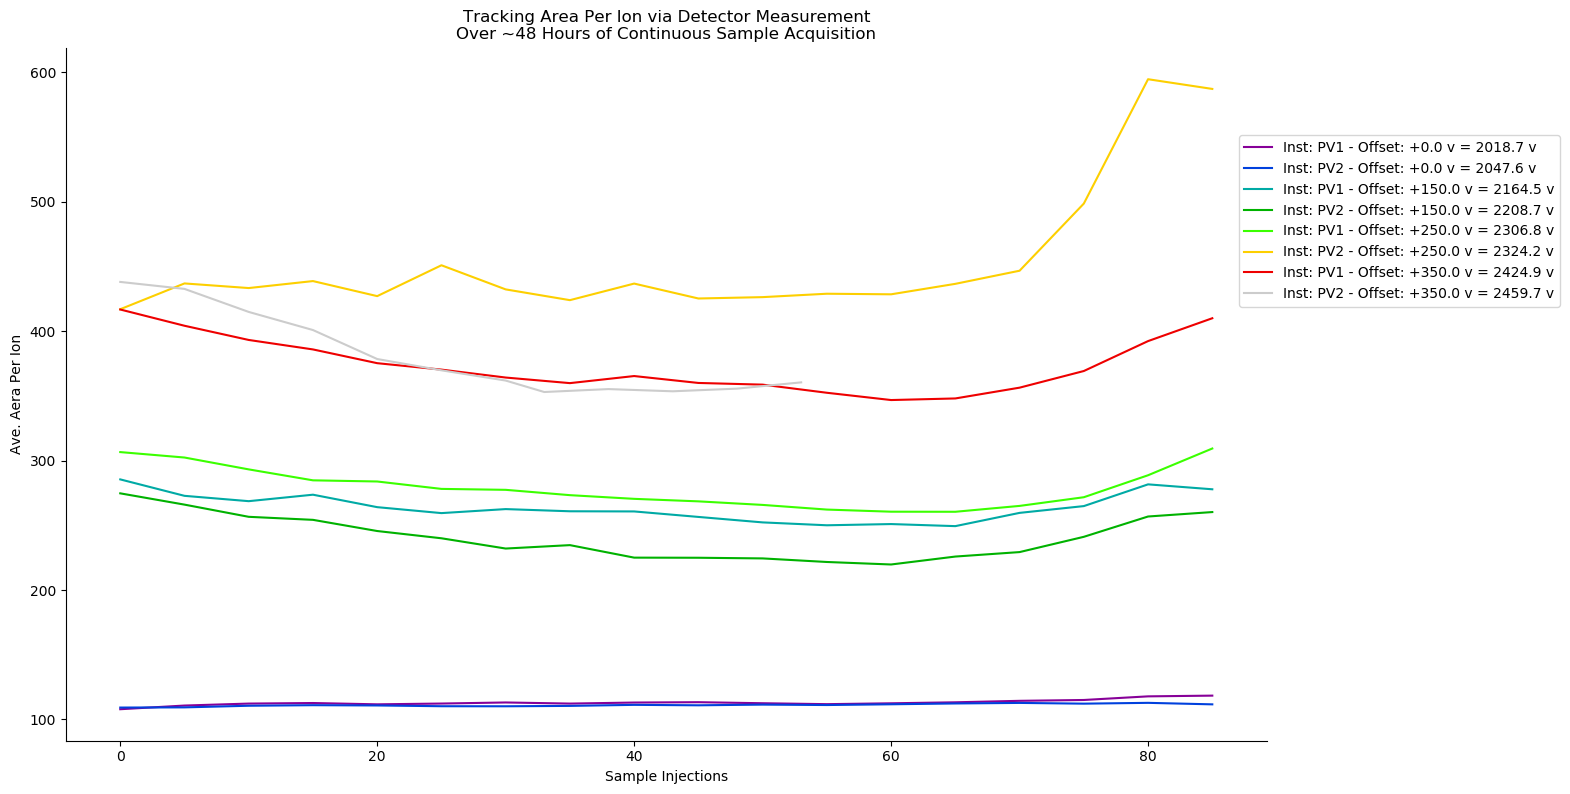
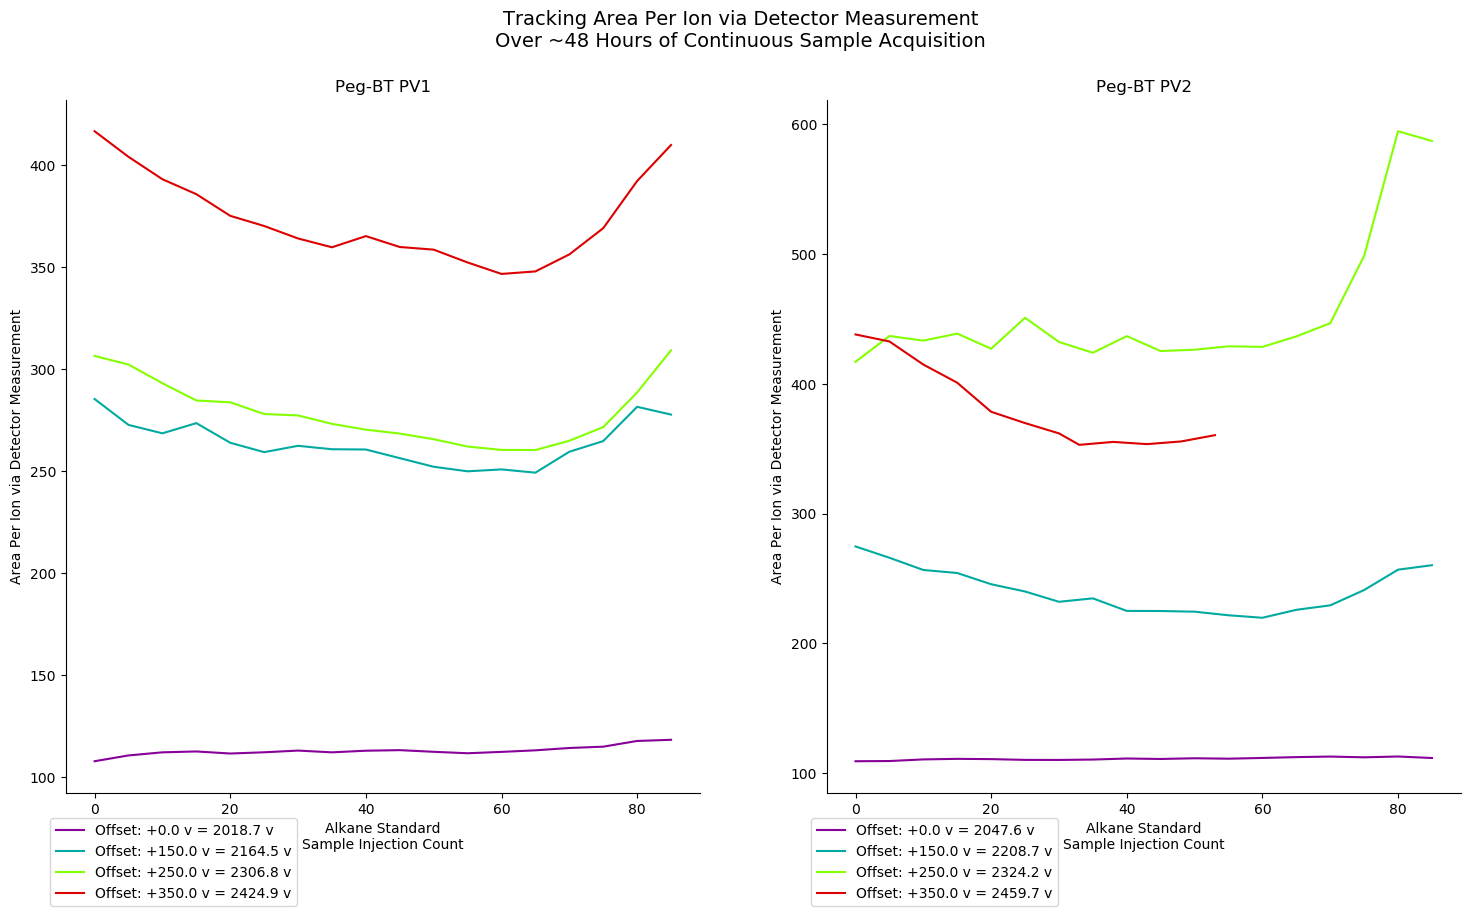
Made the DM ion stats plot easier read by spliting the data accross two axes objections on the same figure object rather combined on a single ax object

diff --git a/Modules/PlotMaker.py b/Modules/PlotMaker.py
@@ -6,6 +6,43 @@ import numpy as np #@UnusedImport
 class Plotter():
 	def __init__(self):
 		self.red_hex_code = '#ff0000'
+
+	def AlkDMIonStatsSplitPlot(self, df):
+		PV1_DataSets_lst = df[df['inst'] == 'PV1']['DataSet'].unique()
+		PV2_DataSets_lst = df[df['inst'] == 'PV2']['DataSet'].unique()
+		inst_sets = [PV1_DataSets_lst,PV2_DataSets_lst]
+		ax_title = ['Peg-BT PV1', 'Peg-BT PV2']
+		
+		
+		fig = plt.figure(figsize=(18,9))
+		ax1 = fig.add_subplot(1,2,1)
+		ax2 = fig.add_subplot(1,2,2)		
+		ax1.set_prop_cycle('color',plt.cm.spectral(np.linspace(0.1,0.9,4))) #@UndefinedVariable
+		ax2.set_prop_cycle('color',plt.cm.spectral(np.linspace(0.1,0.9,4))) #@UndefinedVariable
+		ax = [ax1,ax2]
+		
+		for a in range(2):
+			
+			ax[a].spines['right'].set_visible(False)
+			ax[a].spines['top'].set_visible(False)
+			ax[a].set_ylabel('Area Per Ion via Detector Measurement')
+			ax[a].set_xlabel('Alkane Standard\nSample Injection Count')
+			ax[a].set_title(ax_title[a])
+			
+			for dset in inst_sets[a]:
+				df_sliced = df[df['DataSet'] == dset].copy()
+				offset = df_sliced['offset_volts'].iloc[2]
+				dv = df_sliced['Det_Volts'].iloc[2]
+				curve_label = 'Offset: +{v} v = {d} v'.format(v=offset, d=dv)
+				ax[a].plot(df_sliced['Cumulative_Inj'], df_sliced['ave_api'], label=curve_label)
+				
+			ax[a].legend(loc='center', bbox_to_anchor=(0.17,-0.1))
+		
+		plt.suptitle('Tracking Area Per Ion via Detector Measurement\nOver ~48 Hours of Continuous Sample Acquisition', fontsize=14)
+		plt.savefig('DM_API_Analysis', bbox_inches='tight')
+		plt.show()
+
+
 	
 	def AlkDMIonStatsPlot(self, df):
 		DataSets_lst = df['DataSet'].unique()

diff --git a/Modules/Controller.py b/Modules/Controller.py
@@ -109,11 +109,15 @@ class Controls():
 		# Combine the reps versus concentration data and the average API & detector voltage data
 		# for each data set.
 		combined_df = df_cleaner.CombineAlkConcRepsAndDMIonStats(alk_InjectionReps_df.copy(), alk_ave_DM_df.copy())
+		
+		# correct combined_df['inst'] where is == 0
+		combined_df['inst'] = combined_df.apply(df_cleaner.CorrectInstrumentLbl, axis=1)
+		
 		self.VisualizeAlkDMIonStats(combined_df)
 		
 	def VisualizeAlkDMIonStats(self, df):
 		plot_builder = Plotter()
-		plot_builder.AlkDMIonStatsPlot(df)
+		plot_builder.AlkDMIonStatsSplitPlot(df)
 		
 	def getAlkaneGOIonStats(self):
 		alk_GO_ion_stats = self.db.AlkGOIonStats()

diff --git a/Modules/csvExtracter.py b/Modules/csvExtracter.py
@@ -520,3 +520,13 @@ class Extract():
         combined_df.rename(index=str, columns={"detectorvoltage": "Det_Volts"}, inplace=True)
         
         return combined_df
+    
+    def CorrectInstrumentLbl(self,row):
+        
+        if row['inst'] == 0:
+            return row['DataSet'][-3:]
+        else: 
+            return row['inst']
+            
+        
+        
